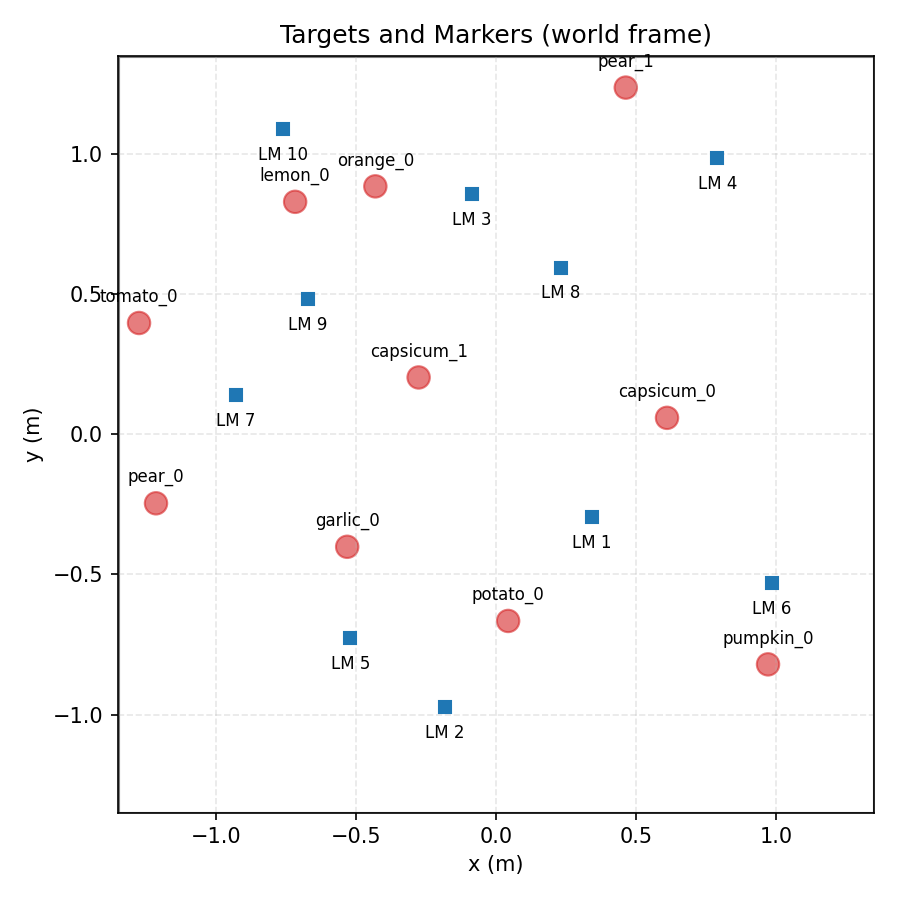
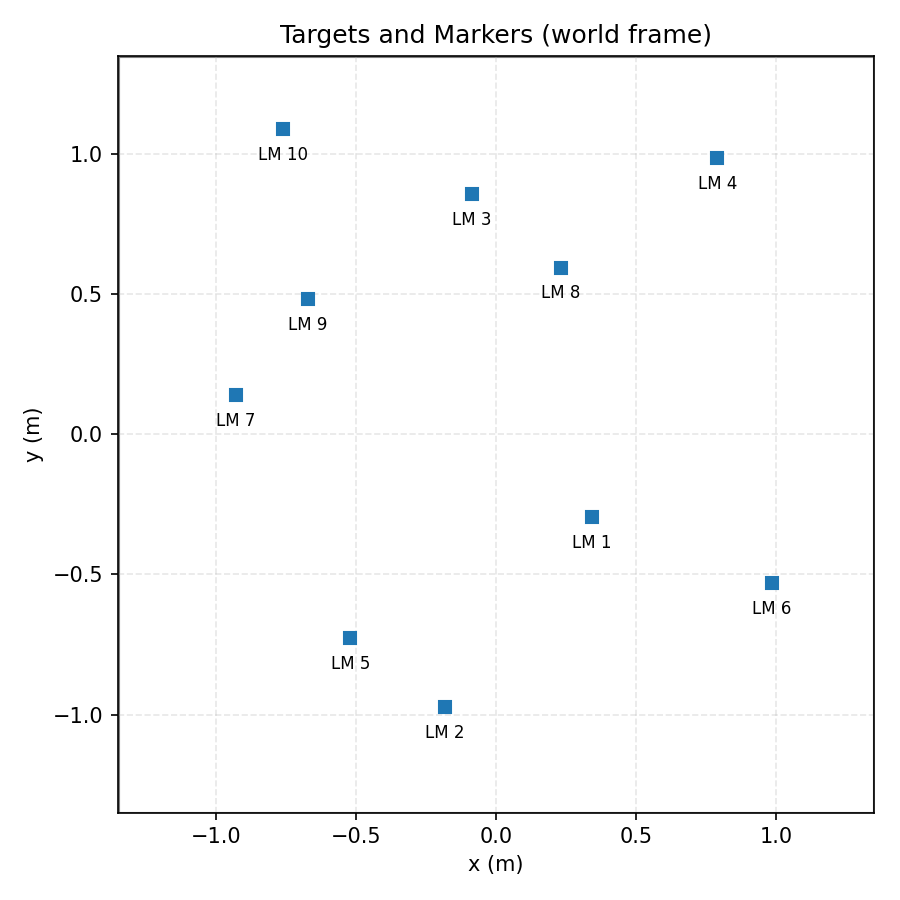
Added slam2map.py

diff --git a/FinalDemo/slam2map.py b/FinalDemo/slam2map.py
@@ -1,0 +1,22 @@
+import json
+
+# Load slam.txt
+with open("lab_output/slam.txt", "r") as f:
+    slam_data = json.load(f)
+
+tags = slam_data["taglist"]
+map_data = slam_data["map"]
+x_coords = map_data[0]
+y_coords = map_data[1]
+
+# Build the true_map
+true_map = {}
+for i, tag in enumerate(tags):
+    key = f"aruco{tag}_0"
+    true_map[key] = {"x": x_coords[i], "y": y_coords[i]}
+
+# Save to JSON
+with open("slam_markers.txt", "w") as f:
+    json.dump(true_map, f, indent=2)
+
+print("Converted slam.txt to slam_markers.txt in true map format!")

diff --git a/FinalDemo/map_plotter.py b/FinalDemo/map_plotter.py
@@ -2,7 +2,7 @@ import json
 import matplotlib.pyplot as plt
 
 # Load map from file
-with open("true_map.txt", "r") as f:
+with open("true_map_backup.txt", "r") as f:
     map_data = json.load(f)
 
 # Separate markers and fruits
